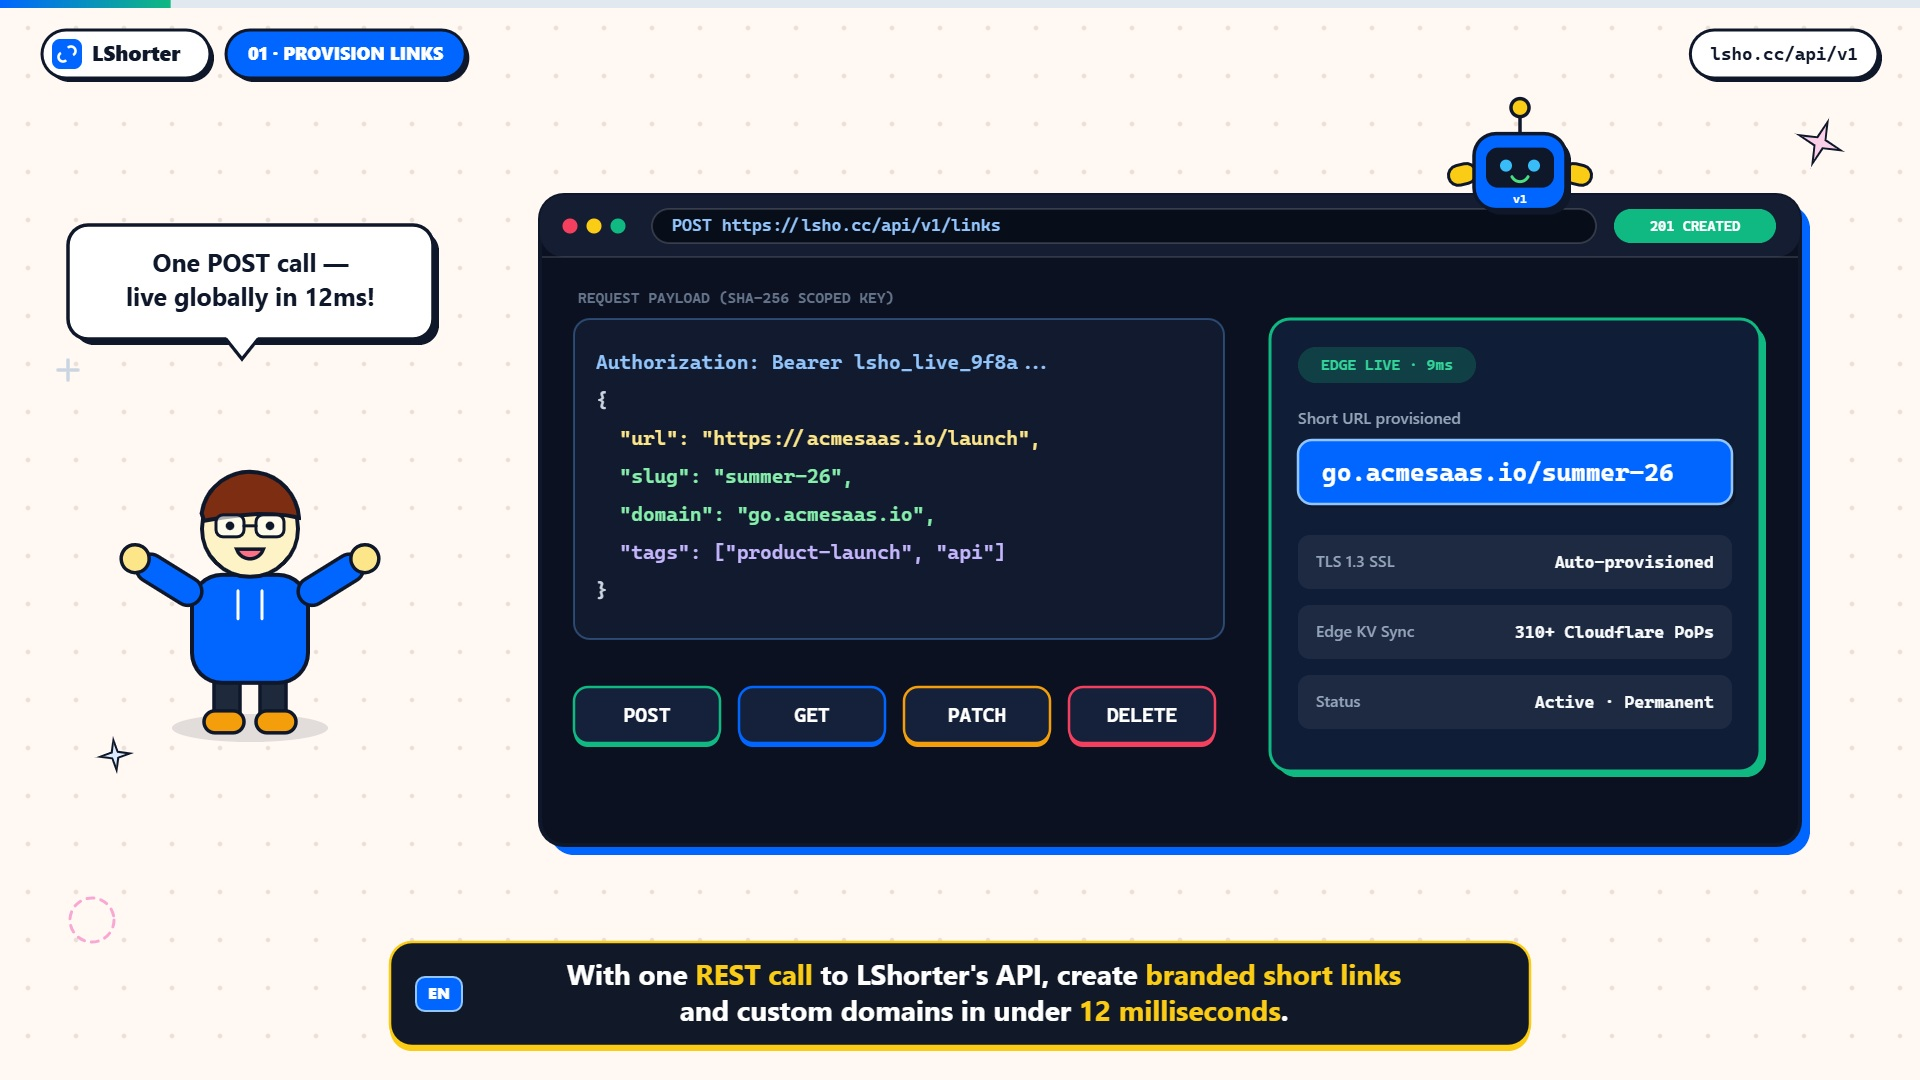
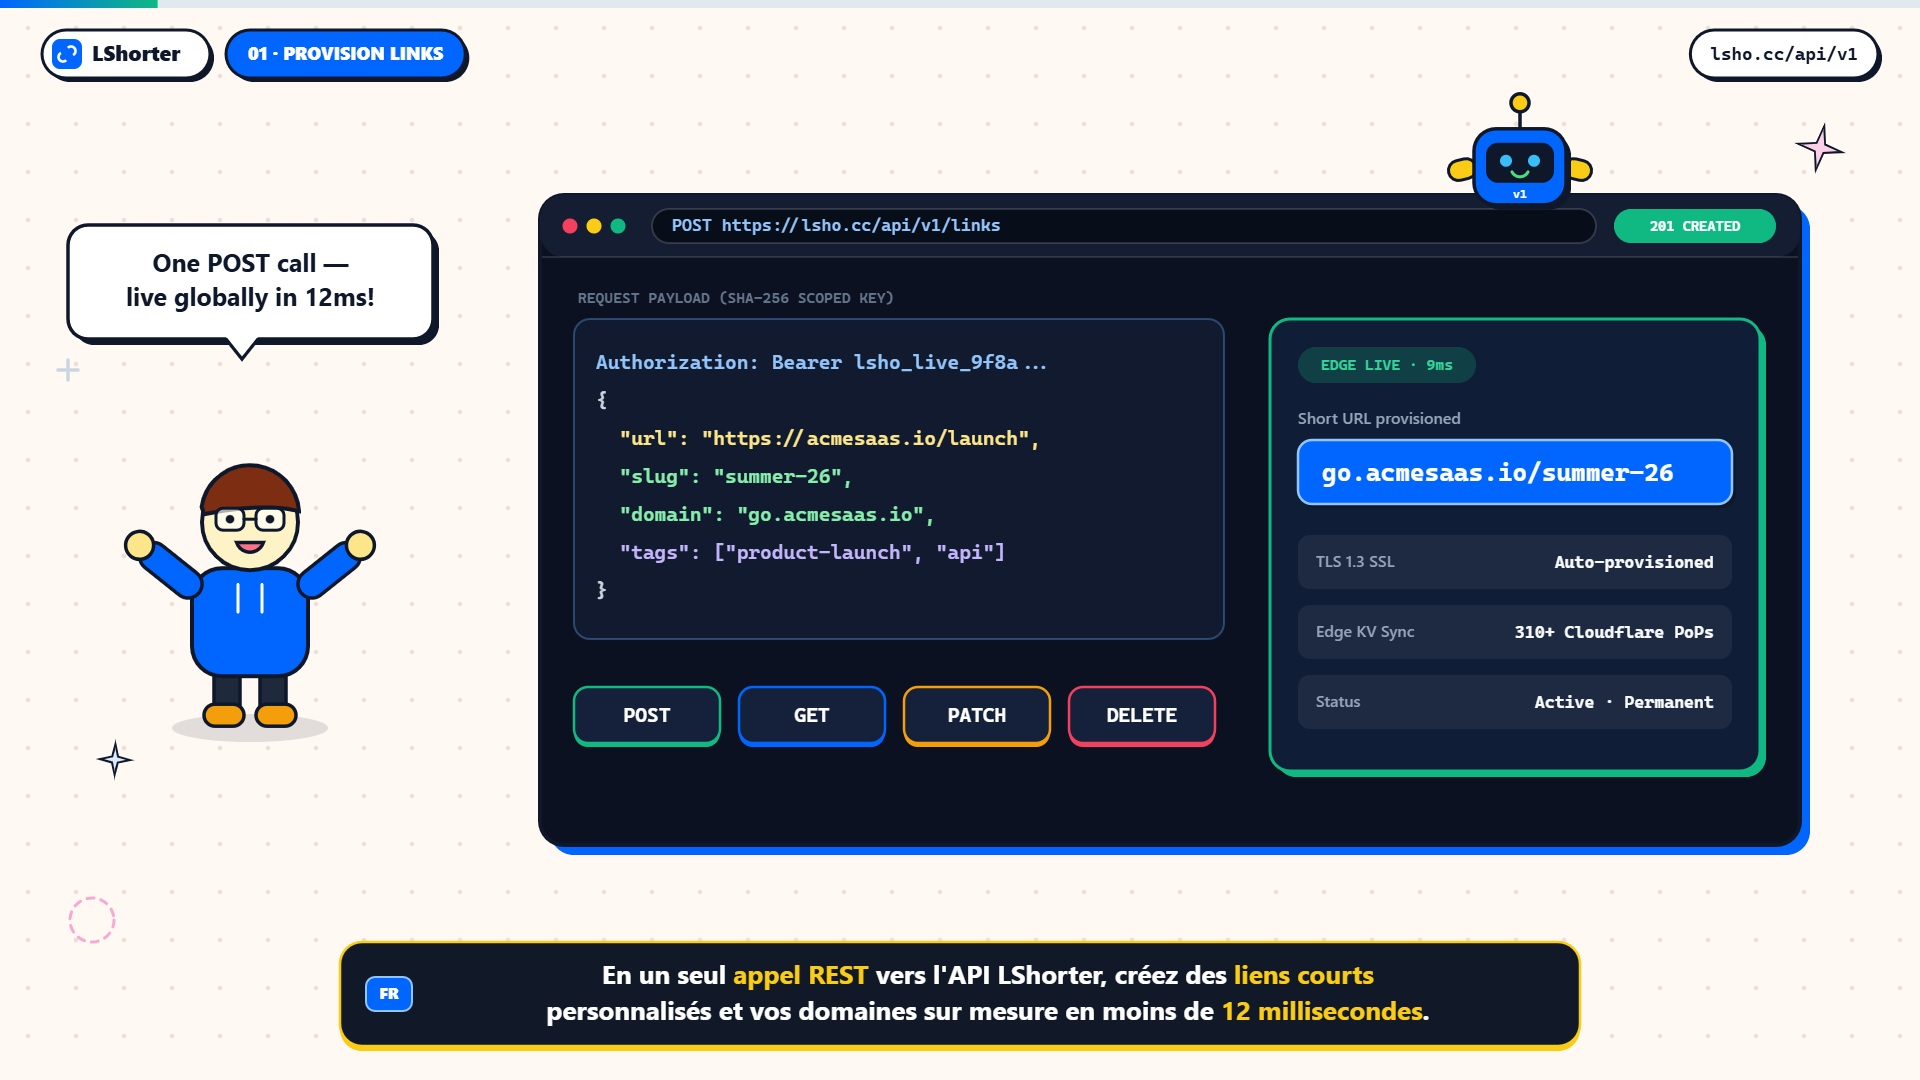
feat(api): add highlighted npm install command and sync API cartoon with EN voiceover + FR subtitles

diff --git a/components/ui/split-developer-hero-with-interactive-code-terminal.tsx b/components/ui/split-developer-hero-with-interactive-code-terminal.tsx
@@ -2,7 +2,7 @@
 
 import * as React from "react";
 import Link from "next/link";
-import { Check } from "lucide-react";
+import { Check, Copy, Terminal } from "lucide-react";
 import { cn } from "@/lib/utils";
 
 /* ------------------------------------------------------------------ */
@@ -34,6 +34,8 @@ export interface SplitDeveloperHeroProps {
   /** Small status pill above the headline. */
   badge?: string;
   title: React.ReactNode;
+  /** Optional highlighted CLI install command displayed directly beneath the title. */
+  installCommand?: string;
   description: string;
   highlights?: SplitDeveloperHighlight[];
   primaryAction: HeroAction;
@@ -420,6 +422,81 @@ function ActionButton({
 }
 
 /* ------------------------------------------------------------------ */
+/* Highlighted CLI Install Command Bar                                 */
+/* ------------------------------------------------------------------ */
+
+function InstallCommandBar({ command }: { command: string }) {
+  const [copied, setCopied] = React.useState(false);
+
+  const handleCopy = () => {
+    navigator.clipboard?.writeText(command).catch(() => {});
+    setCopied(true);
+    window.setTimeout(() => setCopied(false), 1800);
+  };
+
+  const tokens = command.trim().split(/\s+/);
+  const pkgManager = tokens[0] ?? "";
+  const subCmd = tokens.length > 2 ? tokens.slice(1, -1).join(" ") : "";
+  const pkgName = tokens.length > 1 ? tokens[tokens.length - 1] : "";
+
+  return (
+    <div className="pt-0.5">
+      <button
+        type="button"
+        onClick={handleCopy}
+        aria-label={`Copy install command: ${command}`}
+        className="group/cmd inline-flex max-w-full items-center gap-3 rounded-[10px] border border-[#0066FF]/22 dark:border-[#60A5FA]/25 bg-gradient-to-r from-[#F4F8FF] to-[#F8FAFC] dark:from-[#0066FF]/[0.12] dark:to-white/[0.03] px-2.5 py-2 pr-3 shadow-[0_2px_12px_-4px_rgba(0,102,255,0.16)] dark:shadow-[0_4px_20px_-6px_rgba(0,102,255,0.28)] hover:border-[#0066FF]/45 dark:hover:border-[#60A5FA]/50 hover:shadow-[0_6px_20px_-6px_rgba(0,102,255,0.25)] transition-[border-color,box-shadow,background-color] duration-300 cursor-pointer focus-visible:outline-none focus-visible:ring-2 focus-visible:ring-[#0066FF] focus-visible:ring-offset-2 active:scale-[0.99]"
+      >
+        <span className="inline-flex size-7 shrink-0 items-center justify-center rounded-[7px] bg-[#0066FF]/10 dark:bg-[#0066FF]/20 text-[#0066FF] dark:text-[#60A5FA]">
+          <Terminal className="size-3.5" aria-hidden="true" />
+        </span>
+
+        <code className="flex items-center gap-1.5 overflow-x-auto font-mono text-[13.5px] sm:text-[14px] tracking-[-0.01em] whitespace-nowrap">
+          <span className="select-none text-[#94A3B8] dark:text-zinc-500">$</span>
+          <span className="font-semibold text-[#0066FF] dark:text-[#60A5FA]">
+            {pkgManager}
+          </span>
+          {subCmd && (
+            <span className="text-[#52525B] dark:text-zinc-400">{subCmd}</span>
+          )}
+          {pkgName && (
+            <span className="font-semibold text-[#09090B] dark:text-white">
+              {pkgName}
+            </span>
+          )}
+        </code>
+
+        <span
+          aria-hidden="true"
+          className="h-4 w-px shrink-0 bg-[#0066FF]/18 dark:bg-white/12"
+        />
+
+        <span
+          className={cn(
+            "inline-flex shrink-0 items-center gap-1 text-[11.5px] font-medium transition-colors",
+            copied
+              ? "text-emerald-600 dark:text-emerald-400"
+              : "text-[#52525B] dark:text-zinc-400 group-hover/cmd:text-[#0066FF] dark:group-hover/cmd:text-[#60A5FA]",
+          )}
+        >
+          {copied ? (
+            <>
+              <Check className="size-3.5" aria-hidden="true" />
+              <span>Copied</span>
+            </>
+          ) : (
+            <>
+              <Copy className="size-3.5" aria-hidden="true" />
+              <span>Copy</span>
+            </>
+          )}
+        </span>
+      </button>
+    </div>
+  );
+}
+
+/* ------------------------------------------------------------------ */
 /* Main Split Developer Hero Section                                   */
 /* ------------------------------------------------------------------ */
 
@@ -427,6 +504,7 @@ export function SplitDeveloperHero({
   id,
   badge,
   title,
+  installCommand,
   description,
   highlights,
   primaryAction,
@@ -468,6 +546,8 @@ export function SplitDeveloperHero({
           <HeadingTag className="text-balance text-[30px] sm:text-[40px] lg:text-[42px] font-semibold tracking-[-0.03em] leading-[1.08] text-[#09090B] dark:text-white">
             {title}
           </HeadingTag>
+
+          {installCommand && <InstallCommandBar command={installCommand} />}
 
           <p className="max-w-xl text-pretty text-[15.5px] leading-[1.65] text-[#52525B] dark:text-zinc-400">
             {description}

diff --git a/components/marketing/api-cartoon-panel.tsx b/components/marketing/api-cartoon-panel.tsx
@@ -17,7 +17,7 @@ export function ApiCartoonPanel() {
   const [userPaused, setUserPaused] = useState(false);
   const [isMuted, setIsMuted] = useState(true);
   const [currentTime, setCurrentTime] = useState(0);
-  const [duration, setDuration] = useState(54);
+  const [duration, setDuration] = useState(53.6);
 
   useEffect(() => {
     const container = containerRef.current;
@@ -115,8 +115,8 @@ export function ApiCartoonPanel() {
     >
       <video
         ref={videoRef}
-        src="/videos/api-cartoon.mp4?v=1"
-        poster="/videos/api-cartoon-poster.jpg?v=1"
+        src="/videos/api-cartoon.mp4?v=2"
+        poster="/videos/api-cartoon-poster.jpg?v=2"
         muted={isMuted}
         loop
         playsInline

diff --git a/components/marketing/landing-sections-bottom.tsx b/components/marketing/landing-sections-bottom.tsx
@@ -726,6 +726,7 @@ export function DeveloperApiSection() {
       id="api"
       badge="REST API v1 · Edge KV synced"
       title="Provision links and rules from your codebase"
+      installCommand="npm i lshorter-api"
       description="Create links programmatically, enforce PathLock™ prefixes, set click caps, and receive signed conversion webhooks in real time."
       highlights={DEVELOPER_API_HIGHLIGHTS}
       primaryAction={{ label: "Explore API documentation", href: "/docs" }}
